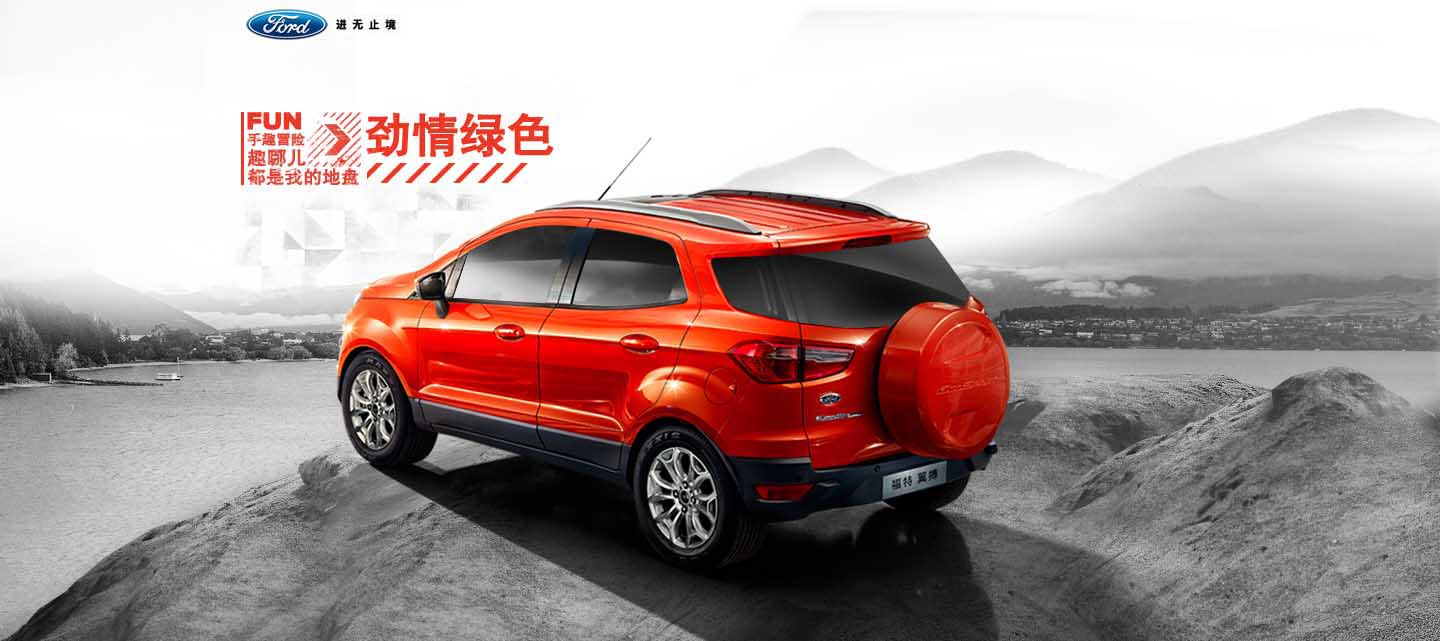
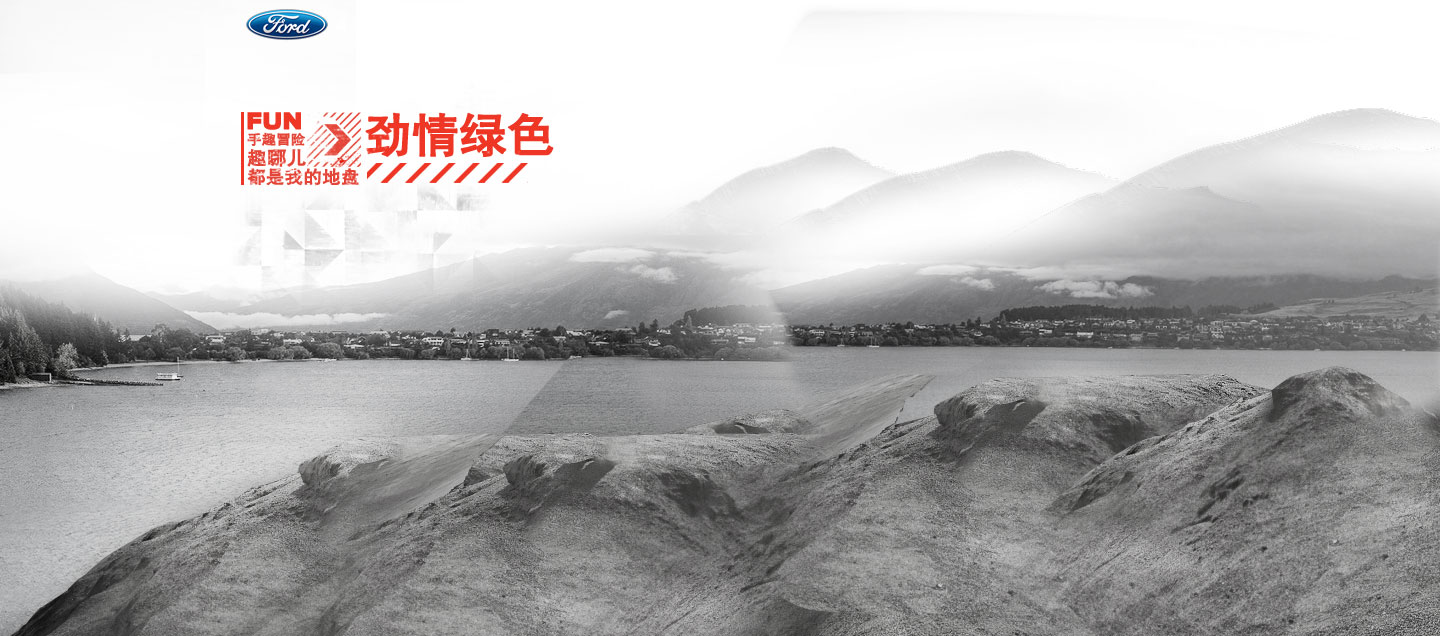
init

diff --git a/js/custom.js b/js/custom.js
@@ -35,6 +35,13 @@ define(['jquery', 'transit','touchSwipe','simpleSlider','backstretch'],function(
         }
 
     }
+    var added={
+        1:true,
+        2:true,
+        3:true,
+        4:true
+
+    }
        $(".slider").on("afterSliding", function(event){
 
 
@@ -42,15 +49,21 @@ define(['jquery', 'transit','touchSwipe','simpleSlider','backstretch'],function(
            var newSlide = event.newSlide;
            $(".slider .slide[data-index='"+newSlide+"'] .slidecontent").fadeIn();
 
-           var img=$("<img src='images/1/1_1.png' />")
-           $(".backstretch",$(".slide")[newSlide]).append(img)
-           shake(img);
+           var img=$("<img style='width:auto;height: 100%; margin-left: -10% ' src='images/"+(parseInt(event.newSlide)+1)+"/1_1.png' />")
+           if(added[newSlide]){
+               $(".backstretch",$(".slide")[newSlide]).append(img);
+
+               added[newSlide]=false;
+           }
+
+
+           //shake(img);
        });
 
        $(".slide#first").backstretch("images/1/1.jpg");
-       $(".slide#sec").backstretch("images/2/1.png");
-       $(".slide#thirth").backstretch("images/3/1.png");
-       $(".slide#fourth").backstretch("images/4/1.png");
+       $(".slide#sec").backstretch("images/2/1.jpg");
+       $(".slide#thirth").backstretch("images/3/1.jpg");
+       $(".slide#fourth").backstretch("images/4/1.jpg");
 
        $('.slide .backstretch img').on('dragstart', function(event) { event.preventDefault(); });
 
